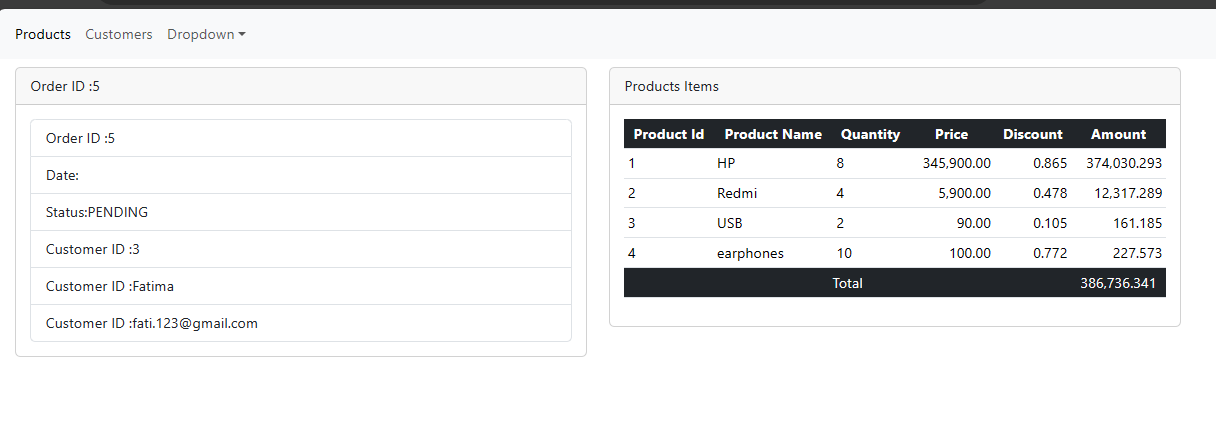
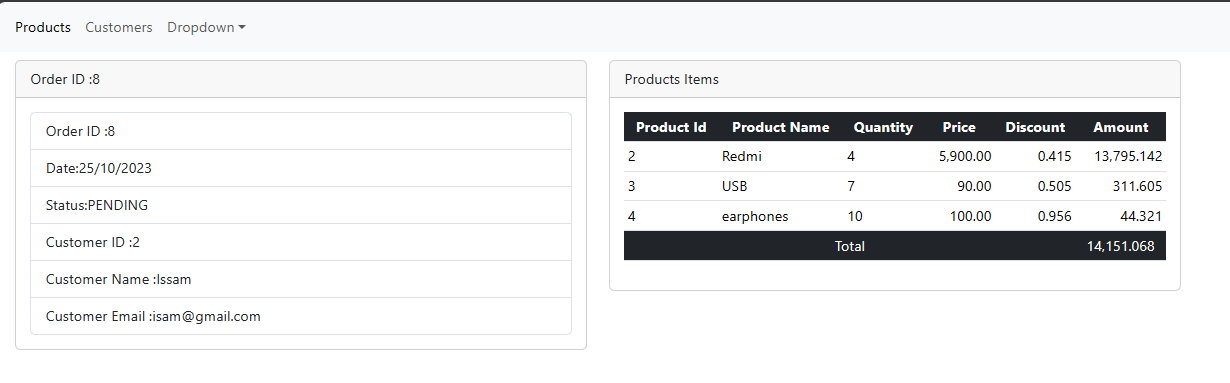
lastCommit

diff --git a/ecom-web-app/src/app/order-details/order-details.component.html b/ecom-web-app/src/app/order-details/order-details.component.html
@@ -7,11 +7,11 @@
         <div class="card-body text-sm-start">
           <ul class="list-group">
             <li class="list-group-item">Order ID :{{orderDetails.id}} </li>
-            <li class="list-group-item">Date:{{orderDetails.date|date:'dd/MM/yyyy'}} </li>
+            <li class="list-group-item">Date:{{orderDetails.createdAt|date:'dd/MM/yyyy'}} </li>
             <li class="list-group-item">Status:{{orderDetails.status}} </li>
             <li class="list-group-item">Customer ID :{{orderDetails.customer.id}} </li>
-            <li class="list-group-item">Customer ID :{{orderDetails.customer.name}} </li>
-            <li class="list-group-item">Customer ID :{{orderDetails.customer.email}} </li>
+            <li class="list-group-item">Customer Name :{{orderDetails.customer.name}} </li>
+            <li class="list-group-item">Customer Email :{{orderDetails.customer.email}} </li>
           </ul>
         </div>
       </div>

diff --git a/ecom-web-app/src/app/orders/orders.component.html b/ecom-web-app/src/app/orders/orders.component.html
@@ -11,7 +11,7 @@
     <tbody>
     <tr *ngFor="let o of orders._embedded.orders">
       <td>{{o.id}}</td>
-      <td>{{o.date}}</td>
+      <td>{{o.createdAt}}</td>
       <td>{{o.status}}</td>
       <td>{{o.customerId}}</td>
       <td>
